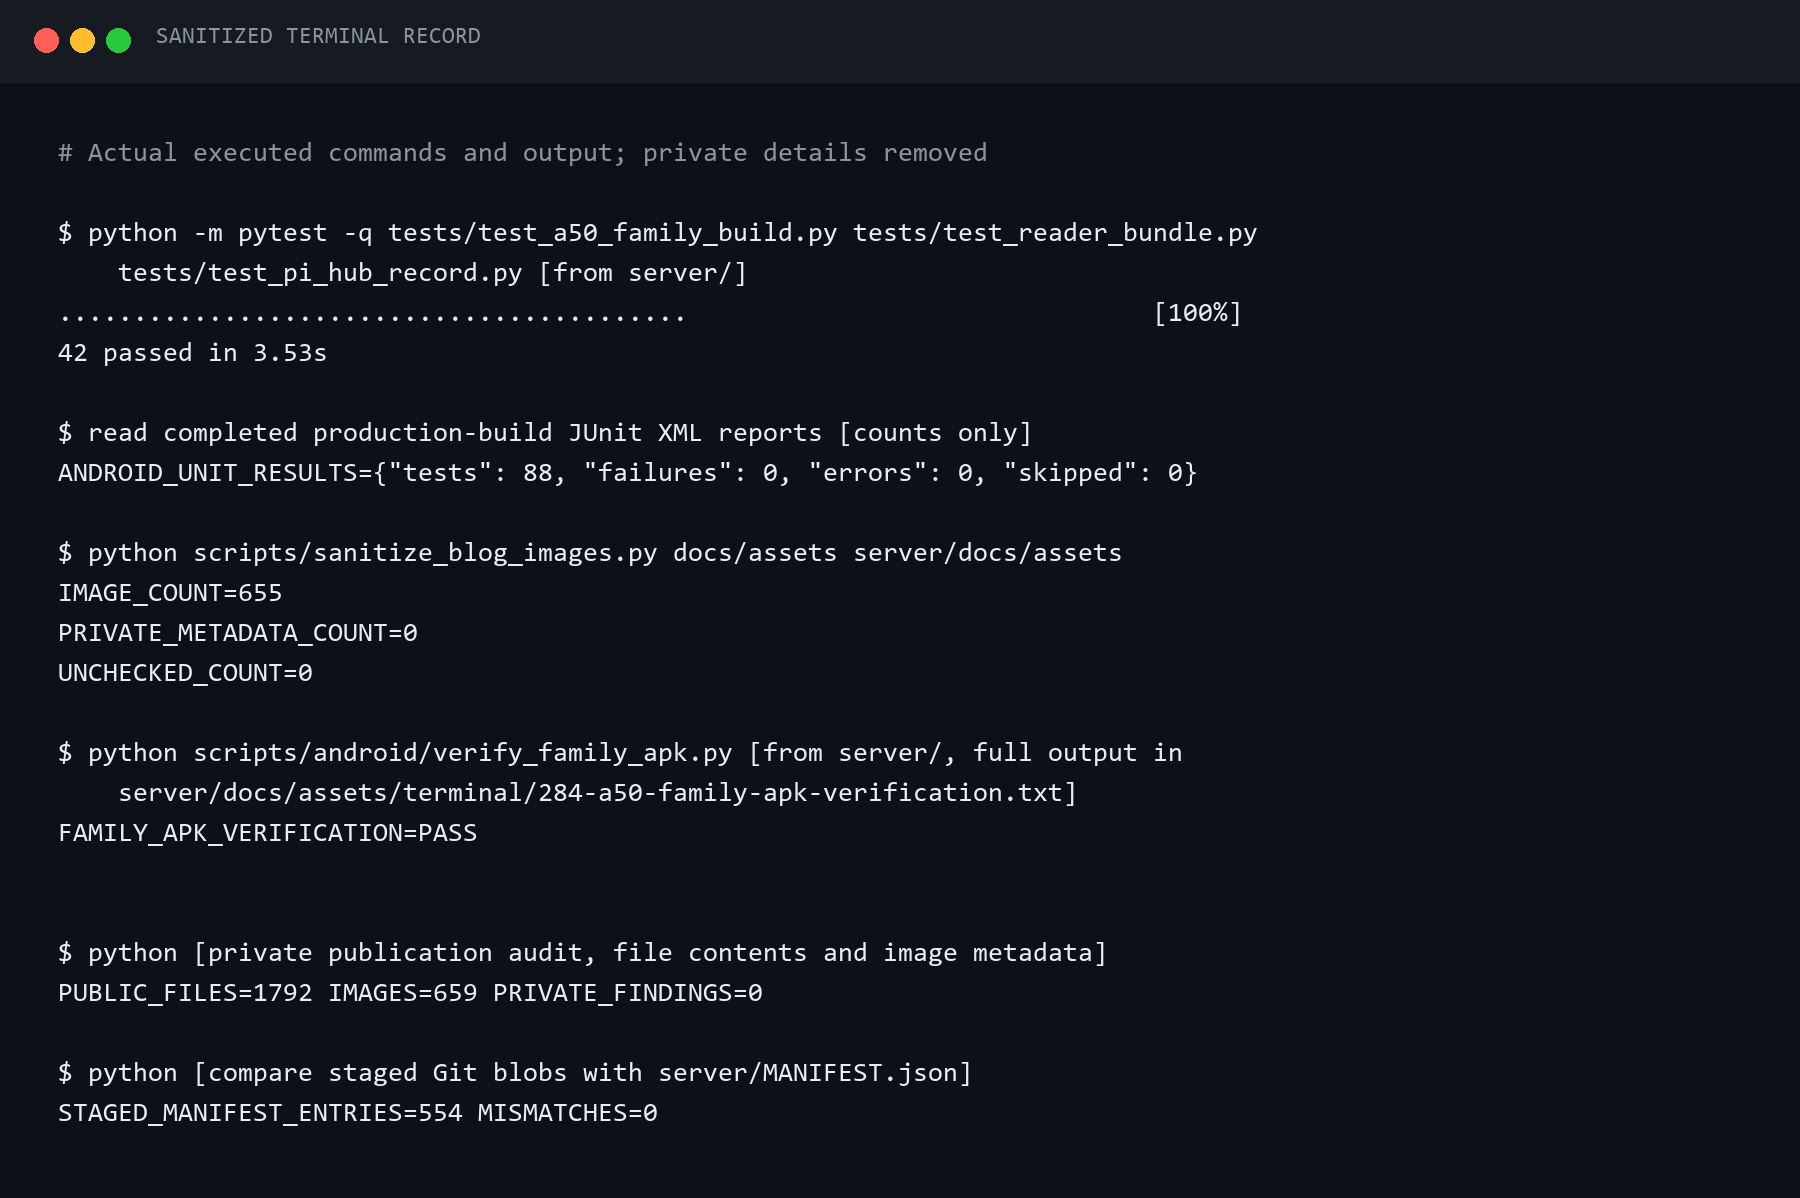
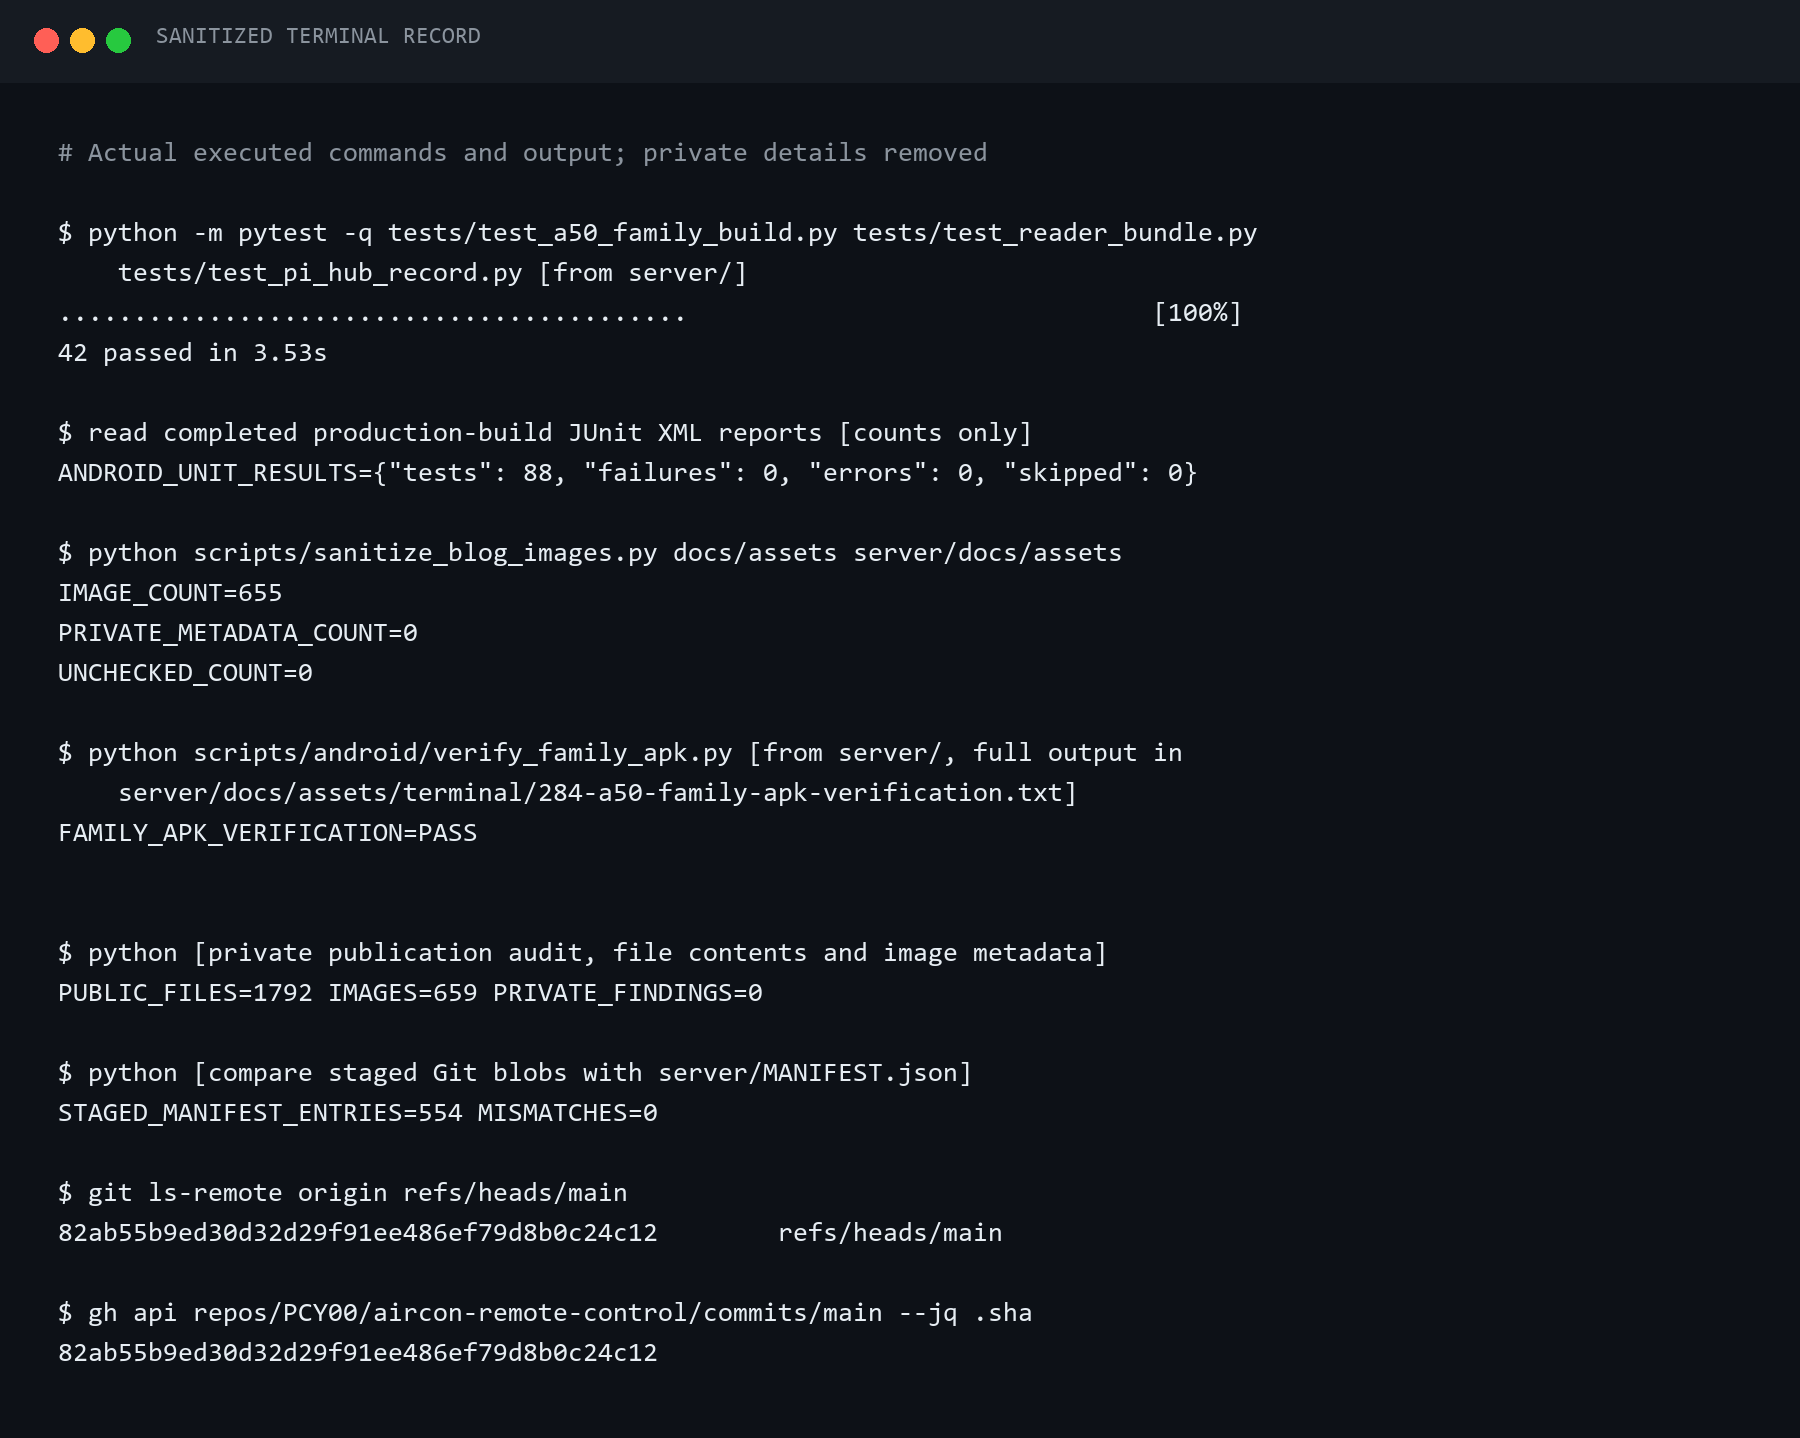
Record family app 0.6.2 publication and diary

diff --git a/docs/journal/2026-10-16-smart-home-notification-diary.md b/docs/journal/2026-10-16-smart-home-notification-diary.md
@@ -163,3 +163,12 @@
 　공개 후보 1,792개 파일에서 실제 설정값·개인정보·키를 찾지 못했다. 가짜 개인정보 차단 시험 자료와 시스템 서비스 이름은 실제 계정 정보와 구분했다. 사진의 위치·촬영 정보도 남아 있지 않았다. Git에 저장될 파일과 `server/MANIFEST.json` 554개 항목을 비교했을 때 기록 두 개가 Windows 줄바꿈 때문에 달랐다. 내용은 유지하고 줄바꿈과 해시 목록을 맞춘 뒤 불일치가 0개인 것을 확인했다.
 
 　오늘 노션의 실제 위치를 읽고 빠진 허브 기록 정리·세로 화면 확인·iPhone 웹앱 질문과 이번 확인 결과를 이어 적었다. 저장 후 다시 읽어 새 기록이 있는 것도 확인했다. 기존 작업 폴더와 브랜치는 유지한 채 원격 main에서 만든 공개 사본에만 커밋한다. 개인정보가 들어가는 비공개 설정·DB·키·APK는 게시 대상에 넣지 않았다.
+
+
+## 0.6.2 추가 변경을 GitHub main에 올렸다
+
+　가족 앱 0.6.2·빌드 번호 12, 세로 화면 아홉 장, README와 설치 설명, 허브 기록 정리·앱 빌드·이번 확인 자료를 GitHub main에 올렸다. 코드 게시 커밋은 `82ab55b9ed30`다. Git 원격 main과 GitHub API를 각각 읽어 같은 커밋이 올라간 것을 확인했다. 이번 추가 게시의 변경 파일은 40개였다.
+
+　노션에는 오늘의 기존 스마트홈 알림 페이지를 그대로 사용해 빠진 기록과 이번 이슈·해결·결과를 이어 적었다. 이전 기록과 다른 날의 일정은 유지했다. 개인정보·비밀 키·실제 DB·APK는 GitHub에 올리지 않았다. 새 APK는 로컬 바탕화면에 별도로 두었다. 이번 작업에서 운영 장비에 다시 배포하거나 휴대폰에 앱을 설치하지 않았다.
+
+　남은 일은 가족 휴대폰에서 실제 시험 알림과 문 열림 알림을 받아 보기, Pi에서 문·온습도 센서의 공간을 정하기다. iPhone용 웹앱은 질문과 방향만 정리했고 구현하지 않았다. 이번 게시 결과와 일기도 이어 커밋한다.
